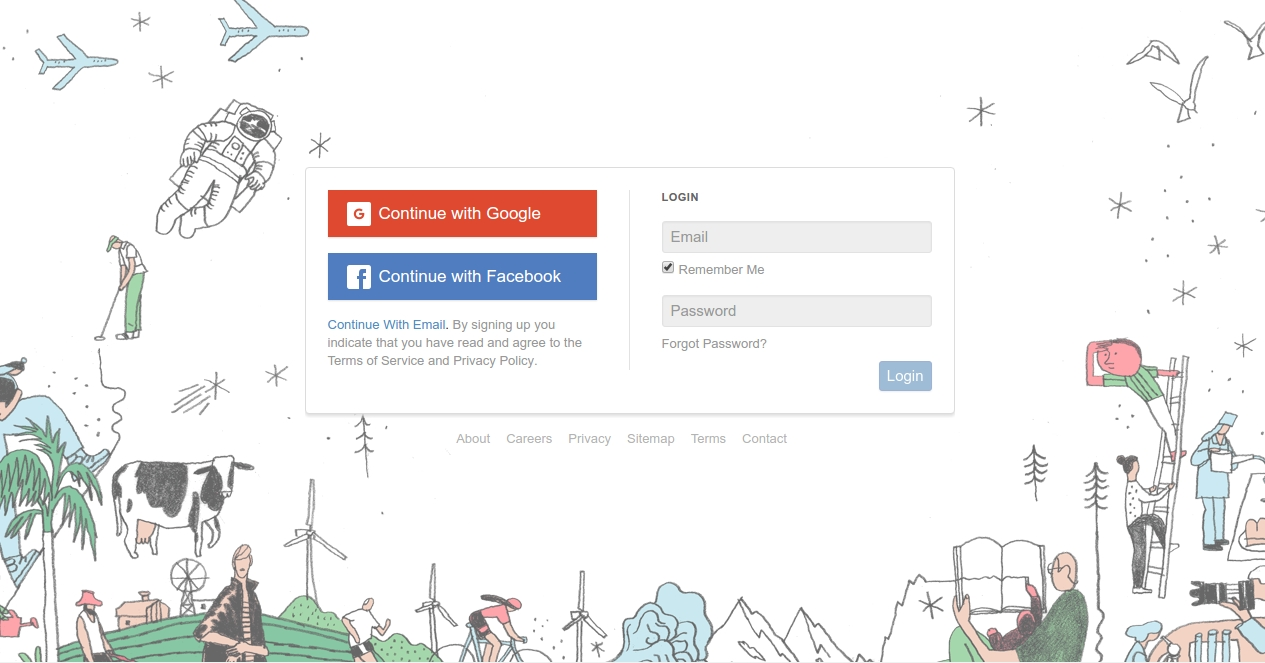
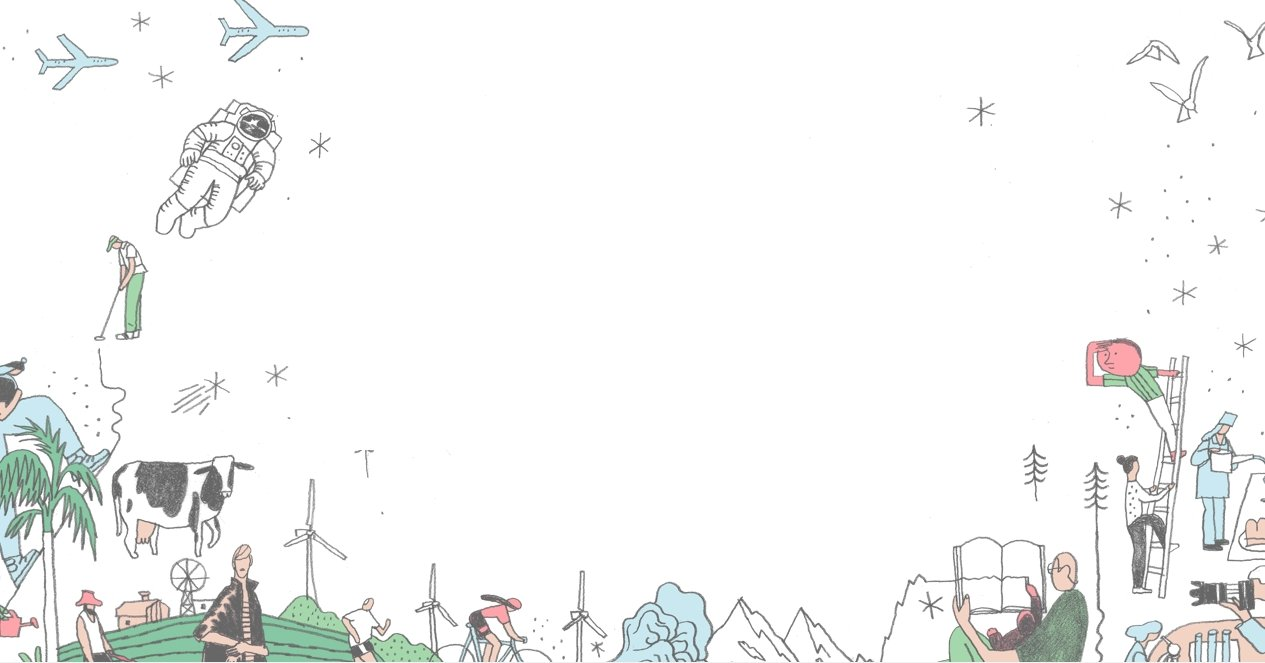
work

diff --git a/index.html b/index.html
@@ -8,20 +8,20 @@
     <link href='http://fonts.googleapis.com/css?family=Source+Sans+Pro:300,400,700' rel='stylesheet' type='text/css'>
     <link href='https://fonts.googleapis.com/css?family=Roboto+Condensed:300,300italic,400,700' rel='stylesheet' type='text/css'>
 
-   <p align="center"> <b font="red"><h1 align="center"> Quora</h1></b><br>
-    <br>
-   The best answer to any question <br></p>
+   <br> <br> <br><p align="center"> <b font-color="red"><h1 align="center"> Quora</h1></b><br></p>
+   
+   <p align="center"> The best answer to any question <br></p>
    
 
-    <link rel="stylesheet" href="css/reset.css">
-    
+    <link rel="stylesheet" href="quora.css">
+     <img src="front.jpg">
 
     <title>Quora</title>
 </head>
 
 <body><div id="logplace" border="1">
-<br><a href="#google">Continue with Google</a>
-<a href="#facebook">Continue with Facebook</a>
+<table border="1"><tr> <td><br><a href="#google">Continue with Google</a></td></tr></table>
+<table border="1"><tr> <td><a href="#facebook">Continue with Facebook</a></td></tr></table>
 <a href="#mail">Continue with Email</a>By signing up you indicate that you have read and agree to the <a href="#terms">Terms of service</a> and <a href="#privacy">Privacy Policy</a>.
 <br>
 <B>LOGIN</B><BR/>
@@ -36,17 +36,17 @@
 
 </div>
 
-    <section>
-        <nav>
+    <div id="nav">
             <a href="#about">About</a>
             <a href="#Career">Career</a>
             <a href="#Sitemap">Sitemap</a>
             <a href="#Terms">Terms</a>
             <a href="#Contact">Contact</a>
-        </nav>
-    </section>
+        </div>
+   
 
         <!-- Resource jQuery -->
-</body>
+<div id="footer">//footer</div>
+<body>
 
 </html>

diff --git a/quora.css b/quora.css
@@ -1,0 +1,11 @@
+#logplace{
+font:Times new roman;
+color:black;
+align:center;
+
+
+
+
+
+
+}
